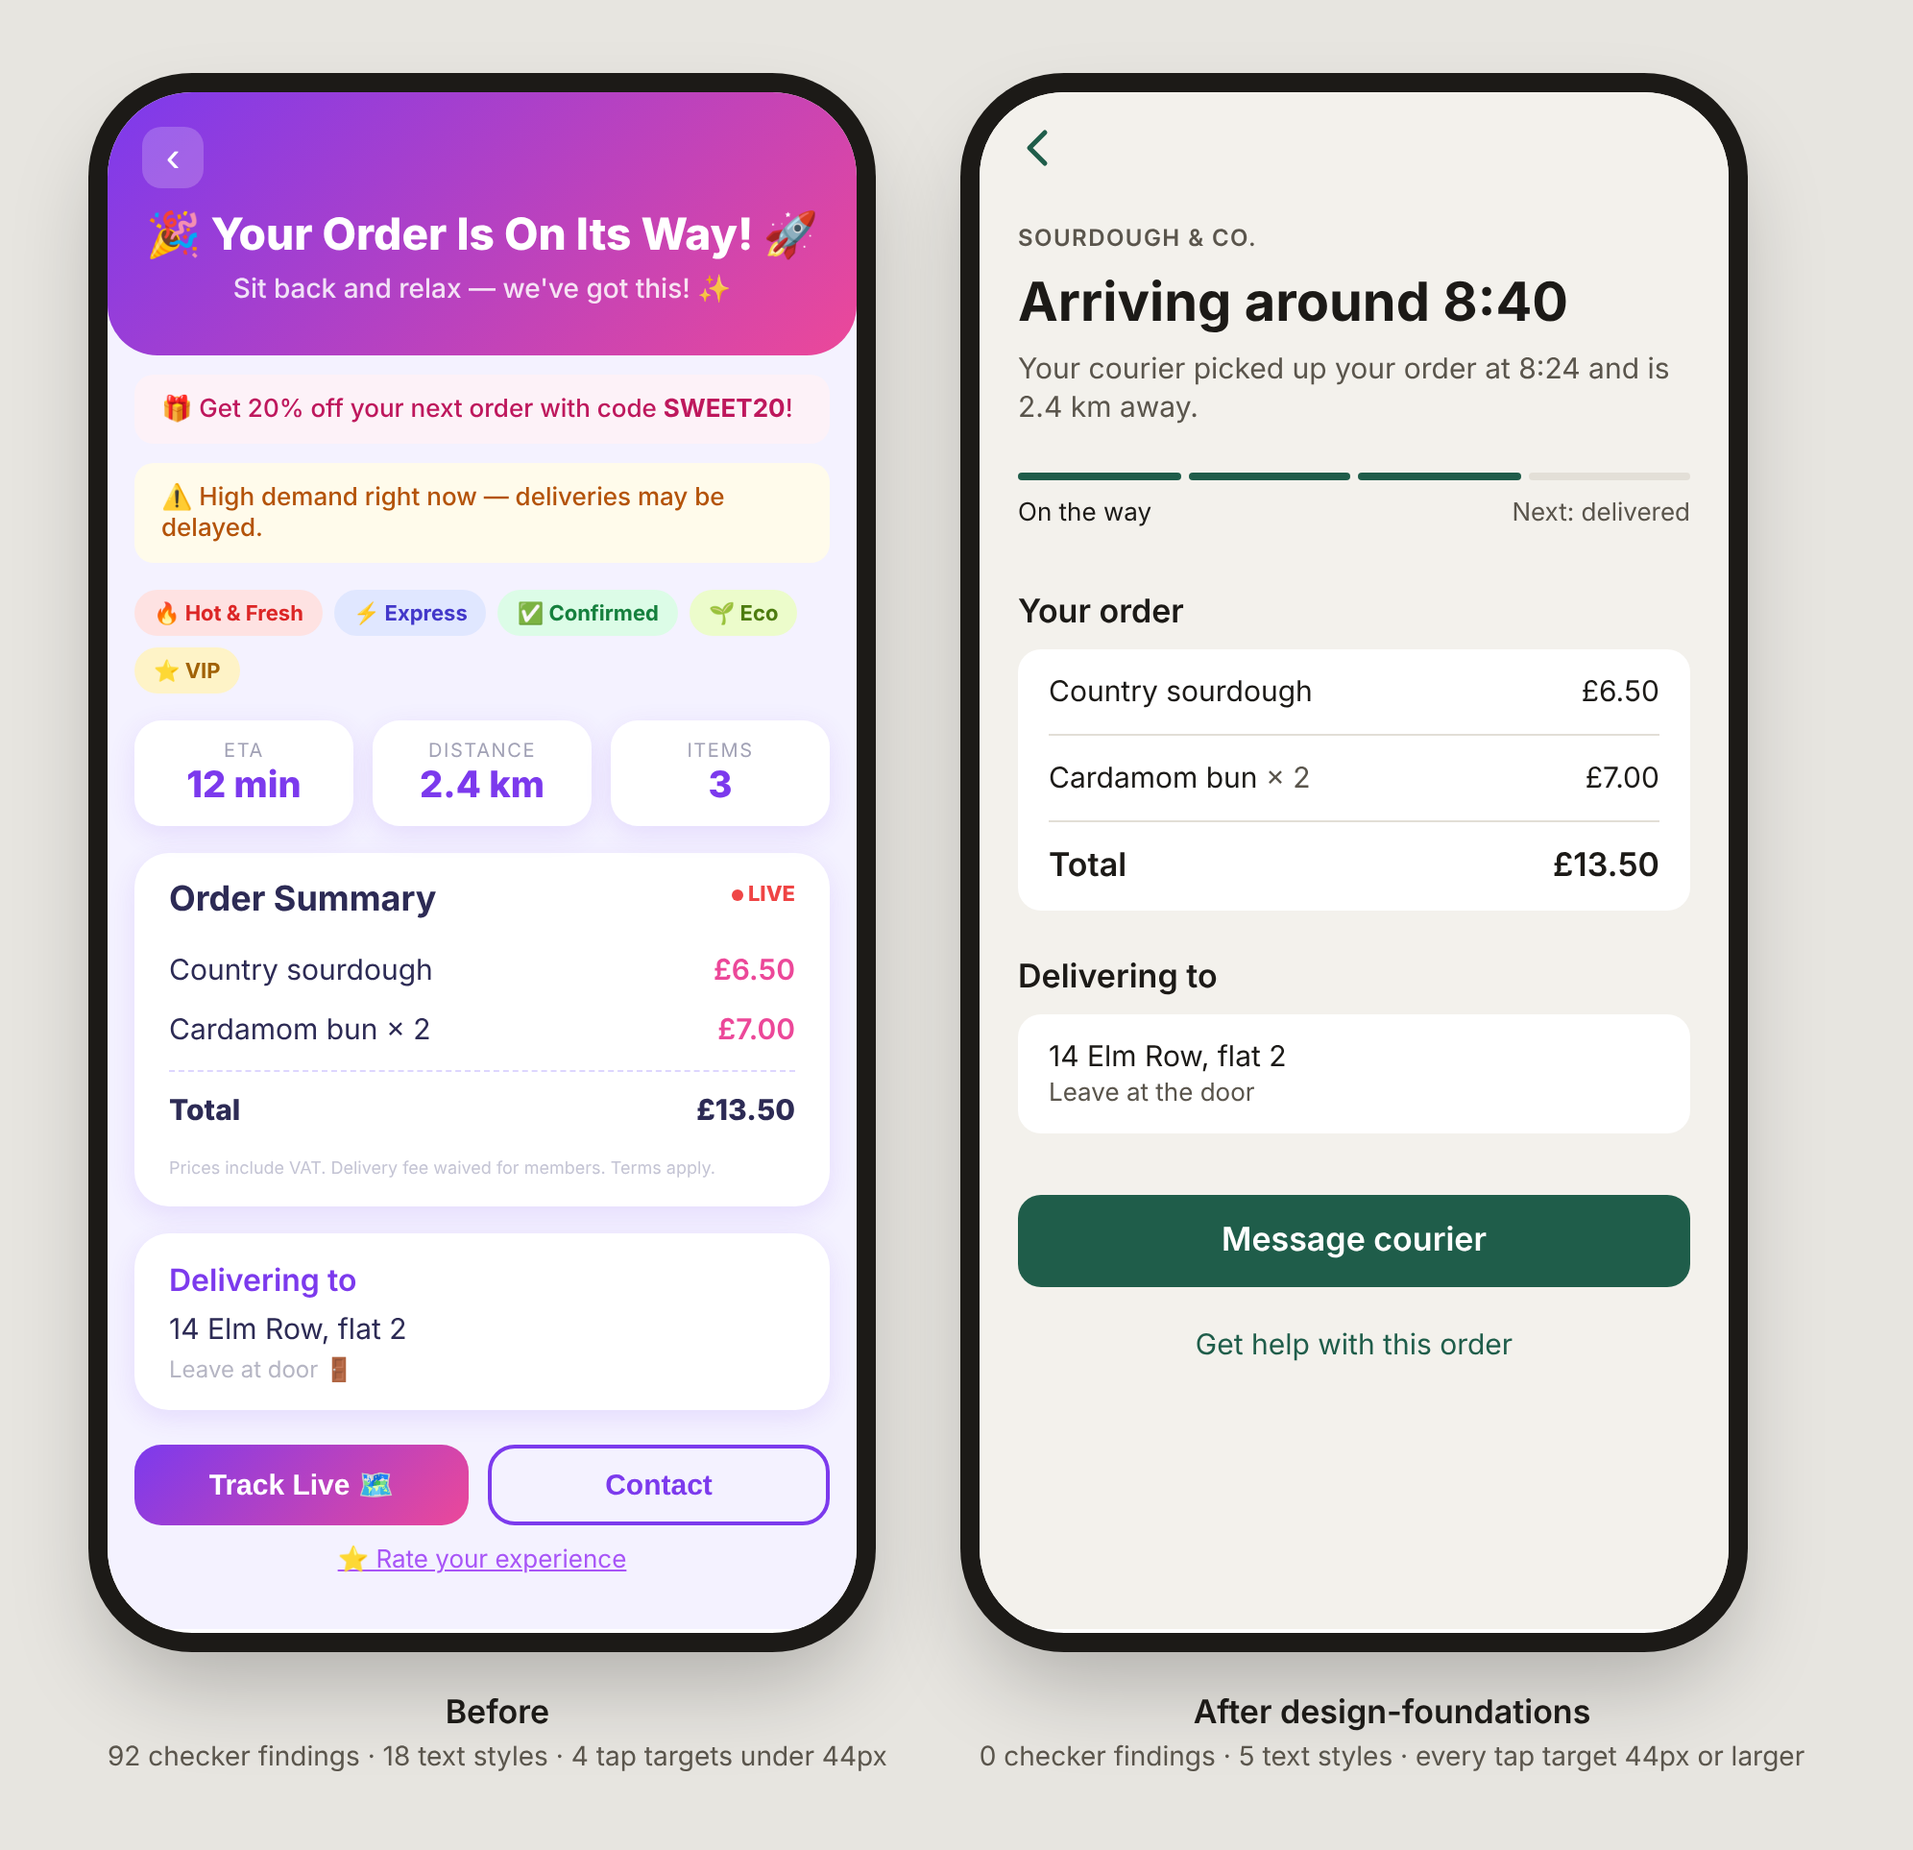
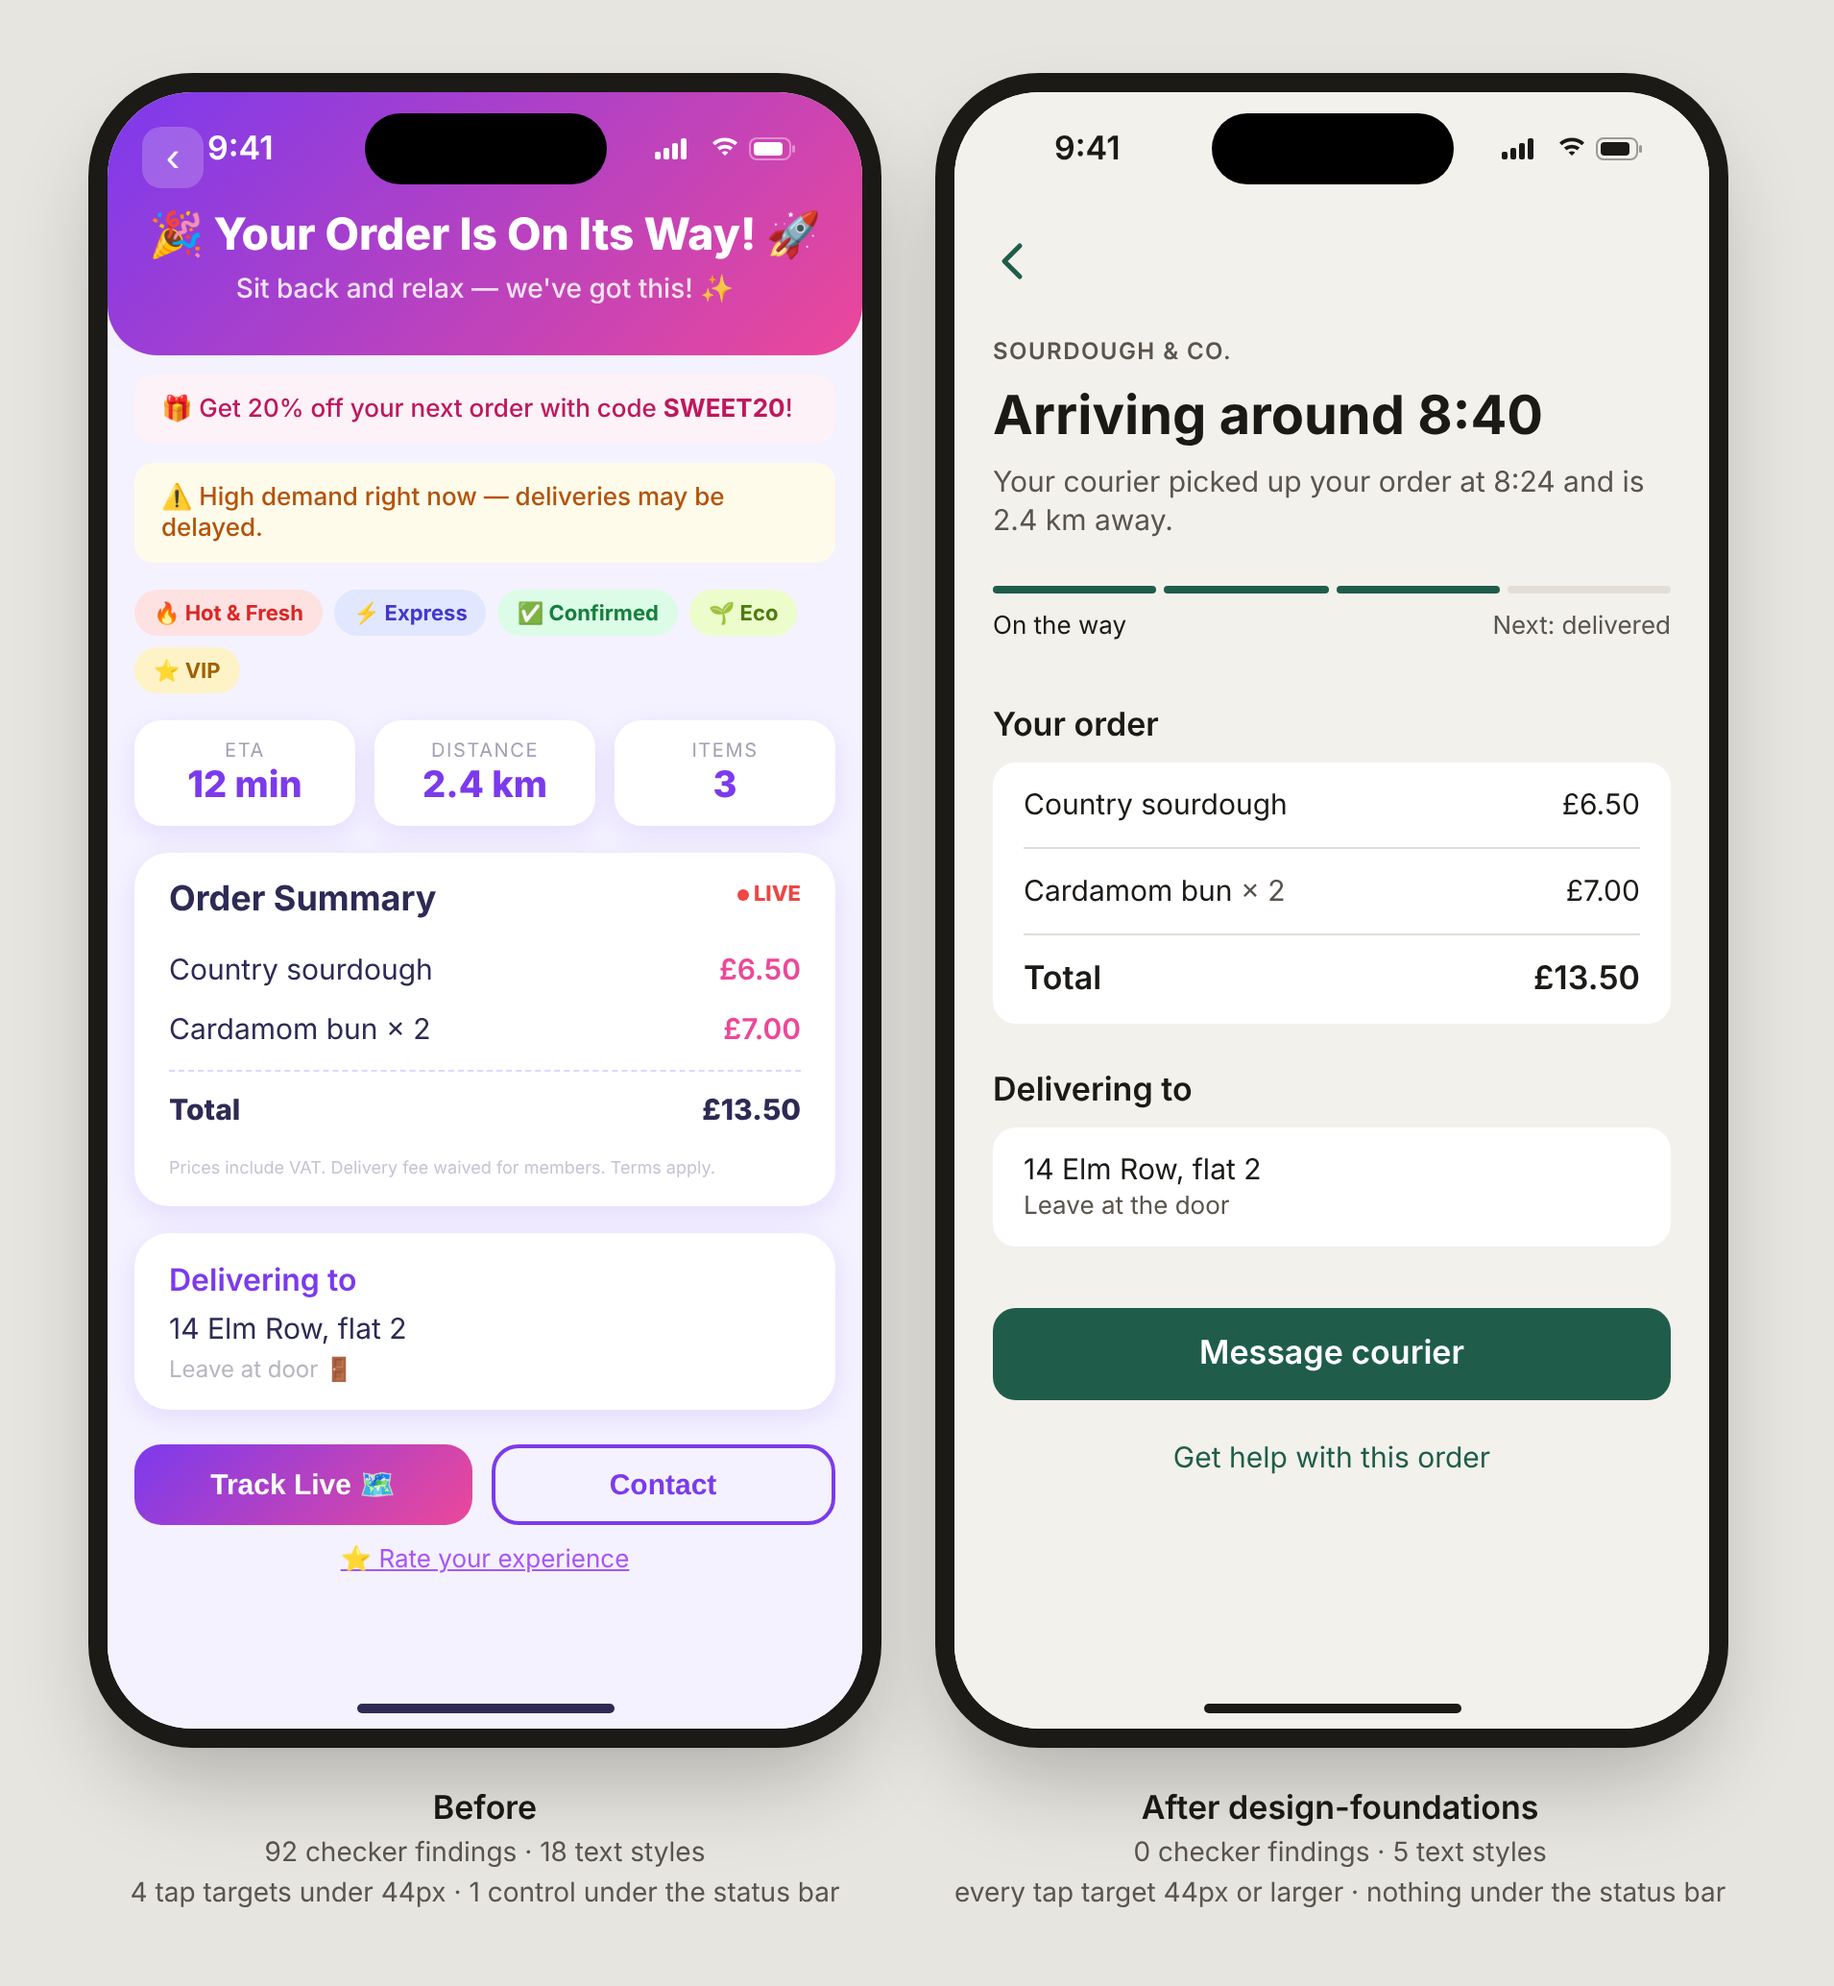
before-after: respect the safe area (LAY-01)
The after screen sets viewport-fit=cover and pads content with
env(safe-area-inset-*) added to the margins, so the back button clears
the status bar and camera cutout. The before screen makes the usual
mistake (cover without padding). The screenshot script now emulates
iPhone safe-area insets, draws the status bar, Dynamic Island and home
indicator, and counts controls under the status bar.

Claude-Session: https://claude.ai/code/session_017RkbRYARkLDtTnmnZKoURL

Changed region(s): [[0.0309, 0.0312, 0.9576, 0.9657]]

diff --git a/examples/before-after/after/style.css b/examples/before-after/after/style.css
@@ -7,7 +7,13 @@ body {
 .screen {
   max-width: 400px;
   margin: 0 auto;
-  padding: 0 var(--df-layout-margin-regular) var(--df-space-8);
+  /* LAY-01: viewport-fit=cover lets the page reach the screen edges, so keep content clear of the
+     status bar, camera cutout and home indicator by adding the safe-area insets to the margins. */
+  padding:
+    env(safe-area-inset-top, 0px)
+    calc(var(--df-layout-margin-regular) + env(safe-area-inset-right, 0px))
+    calc(var(--df-space-8) + env(safe-area-inset-bottom, 0px))
+    calc(var(--df-layout-margin-regular) + env(safe-area-inset-left, 0px));
 }
 h1, h2, p, ul { margin: 0; }
 

diff --git a/examples/before-after/after/index.html b/examples/before-after/after/index.html
@@ -2,7 +2,7 @@
 <html lang="en">
 <head>
 <meta charset="utf-8">
-<meta name="viewport" content="width=device-width, initial-scale=1">
+<meta name="viewport" content="width=device-width, initial-scale=1, viewport-fit=cover">
 <title>Order tracking (after)</title>
 <link rel="stylesheet" href="../../../dist/tokens.css">
 <link rel="stylesheet" href="project.css">

diff --git a/examples/before-after/before/index.html b/examples/before-after/before/index.html
@@ -2,7 +2,7 @@
 <html lang="en">
 <head>
 <meta charset="utf-8">
-<meta name="viewport" content="width=device-width, initial-scale=1">
+<meta name="viewport" content="width=device-width, initial-scale=1, viewport-fit=cover">
 <title>Order tracking (before)</title>
 <link rel="stylesheet" href="style.css">
 </head>

diff --git a/README.md b/README.md
@@ -12,7 +12,7 @@ Rules are paraphrased, and Apple's pages are never committed (see Copyright). Th
 
 ![The same order-tracking screen before and after: the before has a gradient banner, two alert banners, five chips and 18 text styles; the after has one clear title, a progress bar, a grouped order list and a single primary button](docs/images/before-after.png)
 
-*Before: 92 checker findings, 18 text styles, 4 tap targets under 44px. After: none, 5 text styles, every target 44px or larger. Both screens and their configs are in [`examples/before-after`](examples/before-after); `node scripts/screenshot-before-after.mjs` rebuilds the image from fresh runs (needs Playwright).*
+*Before: 92 checker findings, 18 text styles, 4 tap targets under 44px, and a back button under the status bar (it sets `viewport-fit=cover` but never pads for the safe area, LAY-01). After: no findings, 5 text styles, every target 44px or larger, and content padded with `env(safe-area-inset-*)`. Screenshots use emulated iPhone safe-area insets. Both screens and their configs are in [`examples/before-after`](examples/before-after); `node scripts/screenshot-before-after.mjs` rebuilds the image from fresh runs (needs Playwright).*
 
 The examples below pin `v0.3.0`, the latest release; see `CHANGELOG.md` for every release.
 
